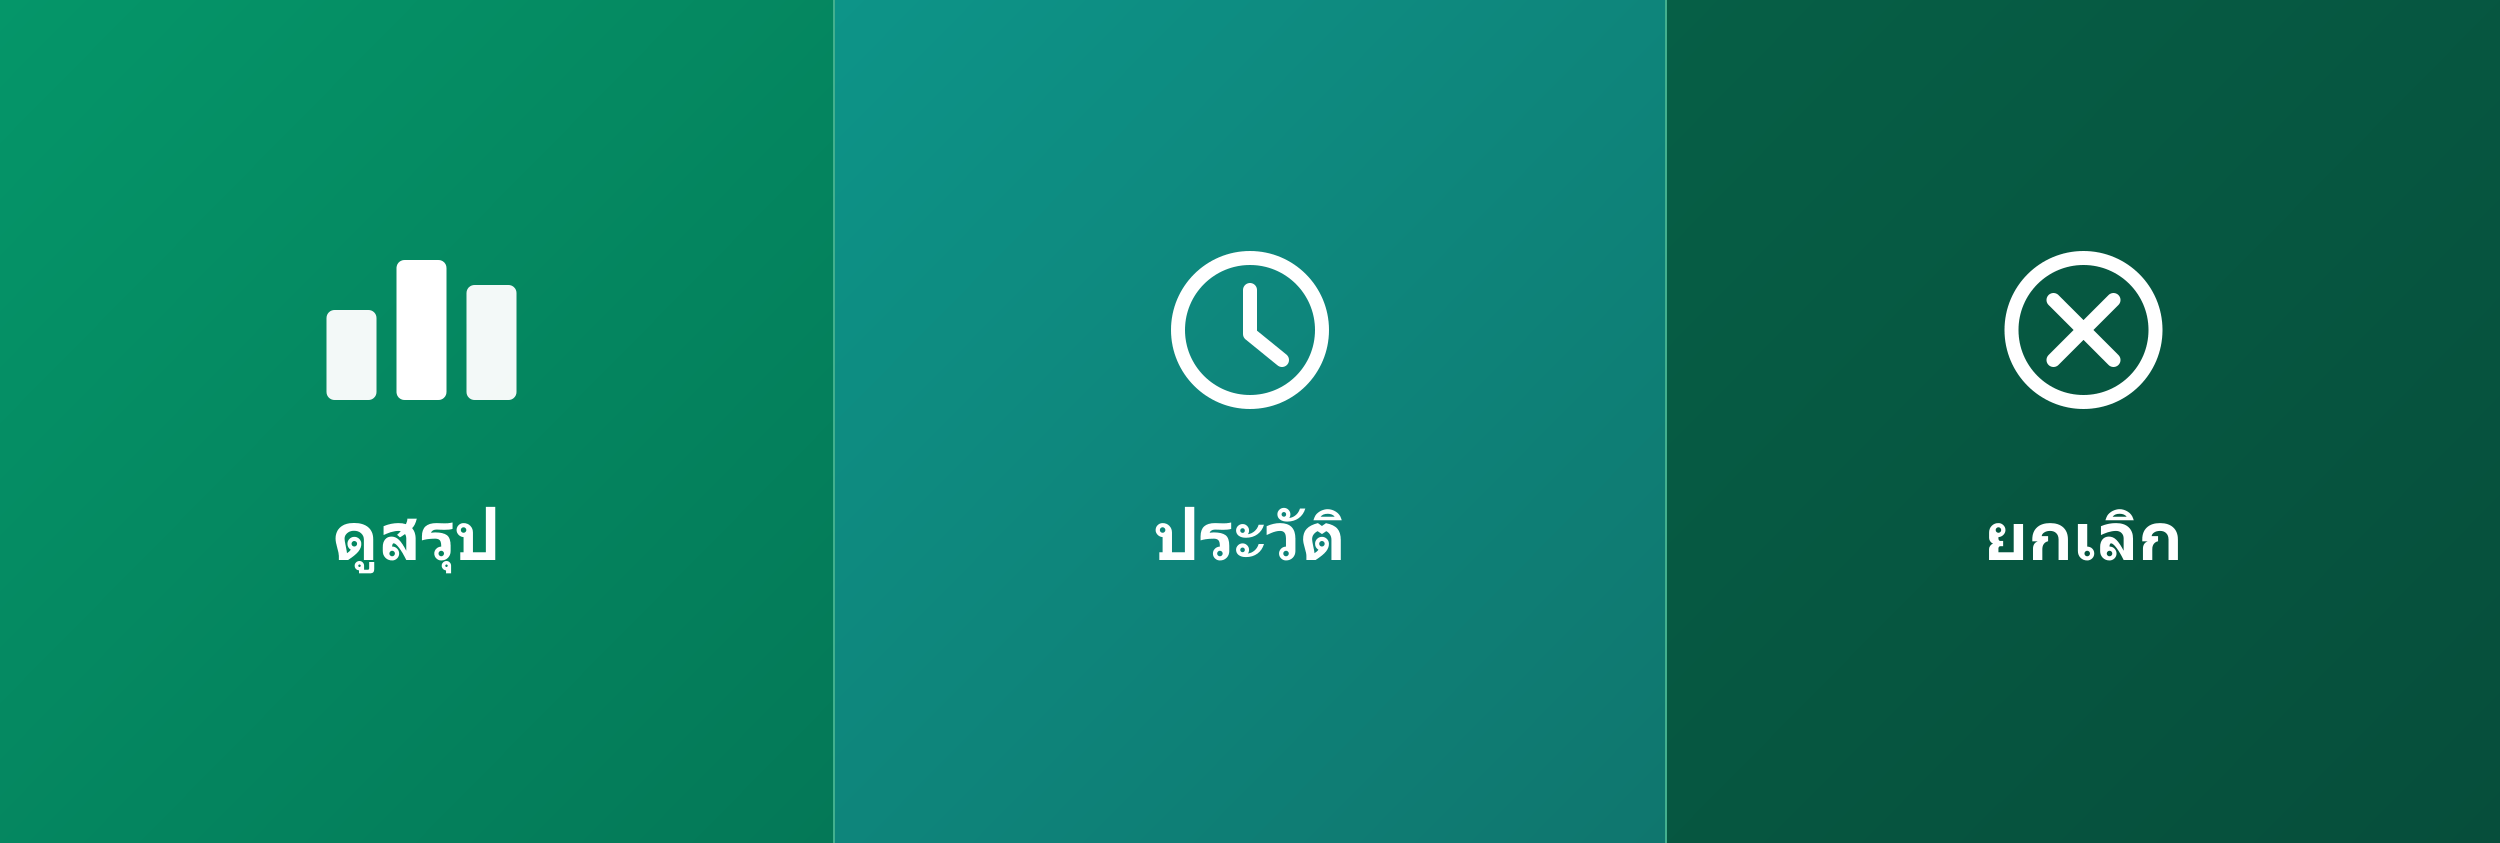
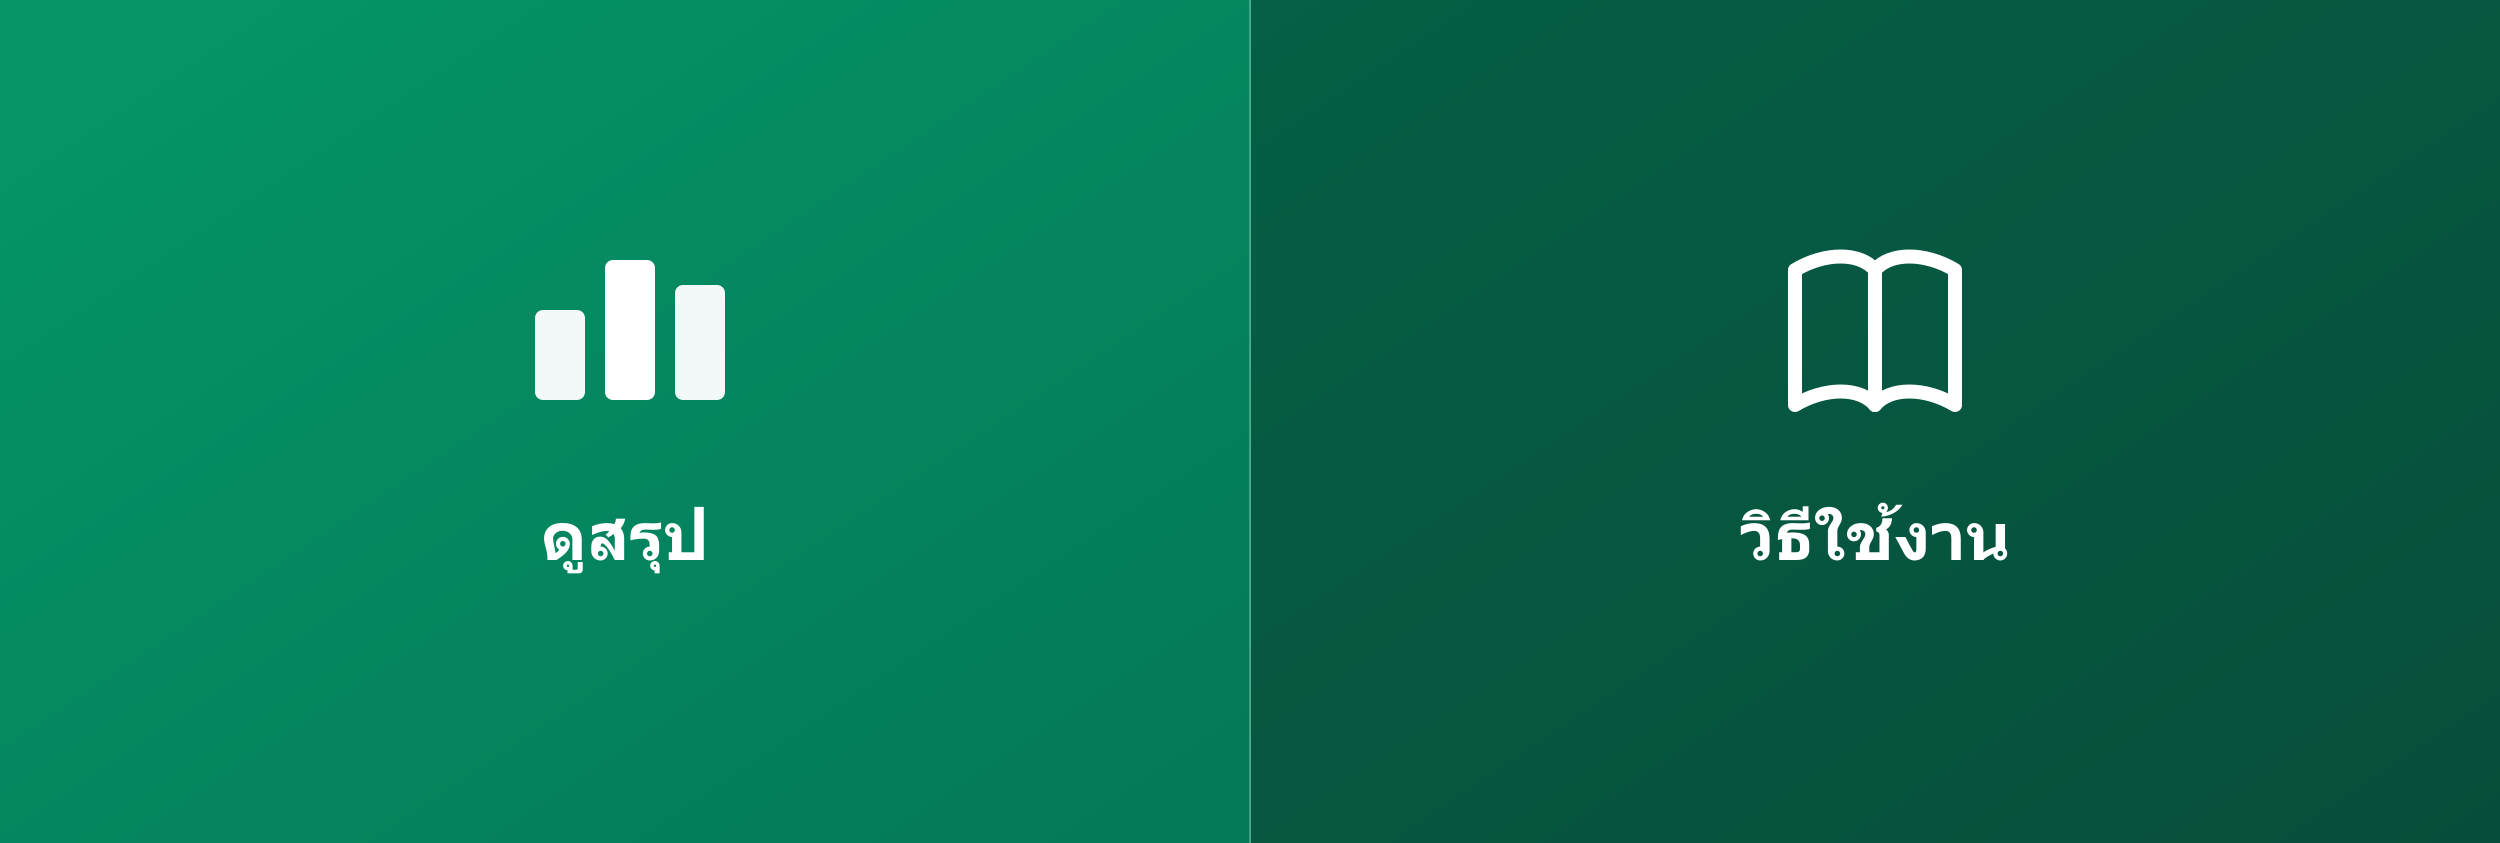
feat: simplify rich menu to 2 tiles, confirm before cancel, scope by household

diff --git a/src/app/api/line/webhook/route.ts b/src/app/api/line/webhook/route.ts
@@ -8,10 +8,11 @@ import {
 } from "@/lib/expense-extraction";
 import type { ExpenseExtraction } from "@/lib/expense-extraction-schema";
 import {
-  cancelExpenseBatchesByIndex,
-  cancelLatestExpenseBatch,
+  cancelExpensesByIds,
   confirmExpenseBatch,
   listRecentConfirmedBatches,
+  previewExpenseBatchesByIndex,
+  previewLatestExpenseBatch,
   rejectExpenseBatch,
 } from "@/lib/expense";
 import { getOrCreateHouseholdMember, type HouseholdMemberContext } from "@/lib/household";
@@ -26,12 +27,30 @@ import {
 import {
   CANCEL_BY_INDEX_PATTERN,
   CANCEL_COMMANDS,
+  CANCEL_CONFIRM_PREFIX,
+  CANCEL_REJECT,
   HISTORY_COMMANDS,
   RICH_MENU_POSTBACK,
 } from "@/constants/bot-commands";
 import type { Expense } from "@/generated/prisma/client";
 
 const channelSecret = process.env.LINE_CHANNEL_SECRET!;
+
+const USAGE_GUIDE_TEXT = `📖 วิธีใช้งาน
+
+💾 บันทึกค่าใช้จ่าย
+พิมพ์ข้อความบอกรายการและจำนวนเงิน เช่น "ค่าไฟ 850" หรือส่งรูปสลิป/ใบเสร็จมาได้เลย บอทจะถามยืนยันก่อนบันทึกทุกครั้ง
+
+📋 ดูประวัติ
+พิมพ์ "ประวัติ" เพื่อดูรายการล่าสุด 10 รายการ พร้อมเลขลำดับ
+
+❌ ยกเลิกรายการ
+- พิมพ์ "ยกเลิก" เพื่อยกเลิกรายการล่าสุด
+- พิมพ์ "ยกเลิก [เลข]" เพื่อยกเลิกรายการตามลำดับที่ดูจาก "ประวัติ" เช่น "ยกเลิก 3" หรือ "ยกเลิก 2,3"
+ทุกครั้งบอทจะถามยืนยันก่อนลบจริง
+
+📊 ดูสรุปค่าใช้จ่าย
+กดปุ่ม "ดูสรุป" ที่เมนูด้านล่างนี้ เพื่อเปิดหน้าสรุปค่าใช้จ่ายแบบละเอียด`;
 
 export async function POST(request: Request) {
   const body = await request.text();
@@ -128,28 +147,12 @@ async function handleImageMessage(
 }
 
 async function handleCancelCommand(replyToken: string, householdMember: HouseholdMemberContext) {
-  const cancelled = await cancelLatestExpenseBatch(householdMember.member.id);
-
-  if (cancelled.length === 0) {
-    await lineClient.replyMessage({
-      replyToken,
-      messages: [{ type: "text", text: "ไม่พบรายการล่าสุดของคุณที่จะยกเลิก" }],
-    });
-    return;
-  }
-
-  const header =
-    cancelled.length > 1 ? `ยกเลิกรายการล่าสุดแล้ว ❌ (${cancelled.length} รายการ)` : "ยกเลิกรายการล่าสุดแล้ว ❌";
-  const payerName = householdMember.member.displayName ?? "ไม่ทราบชื่อ";
-
-  await lineClient.replyMessage({
-    replyToken,
-    messages: [{ type: "text", text: `${header}\nโดย: ${payerName}\n${formatItemsList(cancelled)}` }],
-  });
+  const toCancel = await previewLatestExpenseBatch(householdMember.household.id, householdMember.member.id);
+  await replyCancelConfirmation(replyToken, toCancel, "ไม่พบรายการล่าสุดของคุณที่จะยกเลิก");
 }
 
 async function handleHistoryCommand(replyToken: string, householdMember: HouseholdMemberContext) {
-  const batches = await listRecentConfirmedBatches(householdMember.member.id);
+  const batches = await listRecentConfirmedBatches(householdMember.household.id, householdMember.member.id);
 
   if (batches.length === 0) {
     await lineClient.replyMessage({
@@ -177,26 +180,78 @@ async function handleCancelByIndexCommand(
   replyToken: string,
   householdMember: HouseholdMemberContext,
 ) {
-  const cancelled = await cancelExpenseBatchesByIndex(householdMember.member.id, indices);
+  const toCancel = await previewExpenseBatchesByIndex(
+    householdMember.household.id,
+    householdMember.member.id,
+    indices,
+  );
+  await replyCancelConfirmation(
+    replyToken,
+    toCancel,
+    'ไม่พบรายการตามลำดับที่ระบุ ลองพิมพ์ "ประวัติ" เพื่อดูลำดับล่าสุดอีกครั้ง',
+  );
+}
 
-  if (cancelled.length === 0) {
+// Shared by both cancel entry points ("ยกเลิก" and "ยกเลิก <index>") — shows
+// what would be cancelled and waits for an explicit confirm postback before
+// actually deleting anything, mirroring the same confirm/reject pattern used
+// right after saving a new expense.
+const MAX_CANCEL_CONFIRM_ITEMS = 10;
+
+async function replyCancelConfirmation(
+  replyToken: string,
+  toCancel: Expense[],
+  emptyMessage: string,
+) {
+  if (toCancel.length === 0) {
+    await lineClient.replyMessage({
+      replyToken,
+      messages: [{ type: "text", text: emptyMessage }],
+    });
+    return;
+  }
+
+  // Postback data has a 300-character limit; a cuid is ~25 chars, so this
+  // comfortably covers realistic multi-item cancellations without risking
+  // an oversized payload.
+  if (toCancel.length > MAX_CANCEL_CONFIRM_ITEMS) {
     await lineClient.replyMessage({
       replyToken,
       messages: [
-        { type: "text", text: 'ไม่พบรายการตามลำดับที่ระบุ ลองพิมพ์ "ประวัติ" เพื่อดูลำดับล่าสุดอีกครั้ง' },
+        {
+          type: "text",
+          text: `พบ ${toCancel.length} รายการ ยกเลิกได้ครั้งละไม่เกิน ${MAX_CANCEL_CONFIRM_ITEMS} รายการ ลองระบุลำดับให้น้อยลง`,
+        },
       ],
     });
     return;
   }
 
-  const payerName = householdMember.member.displayName ?? "ไม่ทราบชื่อ";
+  const data = `${CANCEL_CONFIRM_PREFIX}${toCancel.map((expense) => expense.id).join(",")}`;
+  const summary = formatItemsList(toCancel);
+  // The confirm template's `text` field has a 240-character limit — truncate
+  // the preview rather than risk the whole reply failing on a long list of
+  // items with long notes. altText (the notification/desktop-fallback text)
+  // keeps the full summary since it isn't subject to that limit.
+  const CONFIRM_TEXT_LIMIT = 220;
+  const promptText = `ต้องการยกเลิกรายการนี้ใช่ไหม?\n${summary}`;
+  const truncatedPrompt =
+    promptText.length > CONFIRM_TEXT_LIMIT ? `${promptText.slice(0, CONFIRM_TEXT_LIMIT - 1)}…` : promptText;
 
   await lineClient.replyMessage({
     replyToken,
     messages: [
       {
-        type: "text",
-        text: `ยกเลิกแล้ว ❌ (${cancelled.length} รายการ)\nโดย: ${payerName}\n${formatItemsList(cancelled)}`,
+        type: "template",
+        altText: `ยืนยันยกเลิก - ${summary}`,
+        template: {
+          type: "confirm",
+          text: truncatedPrompt,
+          actions: [
+            { type: "postback", label: "ยืนยัน", data, displayText: "ยืนยันยกเลิก" },
+            { type: "postback", label: "ไม่ใช่", data: CANCEL_REJECT, displayText: "ไม่ยกเลิก" },
+          ],
+        },
       },
     ],
   });
@@ -207,14 +262,41 @@ async function handlePostback(
   replyToken: string,
   householdMember: HouseholdMemberContext,
 ) {
-  // Rich menu tiles reuse the exact same handlers as their typed-command
-  // equivalents, so a tap and typing "ประวัติ"/"ยกเลิก" behave identically.
-  if (data === RICH_MENU_POSTBACK.HISTORY) {
-    await handleHistoryCommand(replyToken, householdMember);
+  if (data === RICH_MENU_POSTBACK.USAGE_GUIDE) {
+    await lineClient.replyMessage({ replyToken, messages: [{ type: "text", text: USAGE_GUIDE_TEXT }] });
     return;
   }
-  if (data === RICH_MENU_POSTBACK.CANCEL_LATEST) {
-    await handleCancelCommand(replyToken, householdMember);
+
+  if (data === CANCEL_REJECT) {
+    await lineClient.replyMessage({
+      replyToken,
+      messages: [{ type: "text", text: "ไม่ได้ยกเลิกรายการนี้" }],
+    });
+    return;
+  }
+
+  if (data.startsWith(CANCEL_CONFIRM_PREFIX)) {
+    const expenseIds = data.slice(CANCEL_CONFIRM_PREFIX.length).split(",").filter(Boolean);
+    const cancelled = await cancelExpensesByIds(
+      householdMember.household.id,
+      householdMember.member.id,
+      expenseIds,
+    );
+
+    if (cancelled.length === 0) {
+      await lineClient.replyMessage({
+        replyToken,
+        messages: [{ type: "text", text: "ไม่พบรายการที่จะยกเลิก (อาจถูกยกเลิกไปแล้ว)" }],
+      });
+      return;
+    }
+
+    const payerName = householdMember.member.displayName ?? "ไม่ทราบชื่อ";
+    const header = cancelled.length > 1 ? `ยกเลิกแล้ว ❌ (${cancelled.length} รายการ)` : "ยกเลิกแล้ว ❌";
+    await lineClient.replyMessage({
+      replyToken,
+      messages: [{ type: "text", text: `${header}\nโดย: ${payerName}\n${formatItemsList(cancelled)}` }],
+    });
     return;
   }
 
@@ -222,7 +304,7 @@ async function handlePostback(
   const payerName = householdMember.member.displayName ?? "ไม่ทราบชื่อ";
 
   if (action === "confirm" && batchId) {
-    const items = await confirmExpenseBatch(batchId, householdMember.member.id);
+    const items = await confirmExpenseBatch(householdMember.household.id, batchId, householdMember.member.id);
 
     if (items.length === 0) {
       await lineClient.replyMessage({
@@ -241,7 +323,7 @@ async function handlePostback(
   }
 
   if (action === "reject" && batchId) {
-    const deletedCount = await rejectExpenseBatch(batchId, householdMember.member.id);
+    const deletedCount = await rejectExpenseBatch(householdMember.household.id, batchId, householdMember.member.id);
     await lineClient.replyMessage({
       replyToken,
       messages: [

diff --git a/src/lib/expense.ts b/src/lib/expense.ts
@@ -3,9 +3,19 @@ import { HISTORY_LIST_SIZE } from "@/constants/bot-commands";
 import type { ExpenseCategoryValue } from "@/constants/expense-category";
 import type { Expense } from "@/generated/prisma/client";
 
-export async function confirmExpenseBatch(batchId: string, memberId: string) {
+// Every query below is scoped by BOTH householdId and paidByMemberId, not
+// memberId alone. A member row is already unique per household (see the
+// (householdId, lineUserId) compound key in the schema), so this is
+// defense-in-depth rather than a fix for cross-room leakage that could
+// otherwise occur — but it makes the room boundary explicit at the query
+// level instead of relying on callers always resolving the right memberId.
+export async function confirmExpenseBatch(
+  householdId: string,
+  batchId: string,
+  memberId: string,
+) {
   const items = await prisma.expense.findMany({
-    where: { batchId, paidByMemberId: memberId, confirmed: false },
+    where: { householdId, batchId, paidByMemberId: memberId, confirmed: false },
   });
 
   if (items.length === 0) {
@@ -13,30 +23,36 @@ export async function confirmExpenseBatch(batchId: string, memberId: string) {
   }
 
   await prisma.expense.updateMany({
-    where: { batchId, paidByMemberId: memberId },
+    where: { householdId, batchId, paidByMemberId: memberId },
     data: { confirmed: true },
   });
 
   return items;
 }
 
-export async function rejectExpenseBatch(batchId: string, memberId: string): Promise<number> {
+export async function rejectExpenseBatch(
+  householdId: string,
+  batchId: string,
+  memberId: string,
+): Promise<number> {
   const result = await prisma.expense.deleteMany({
-    where: { batchId, paidByMemberId: memberId, confirmed: false },
+    where: { householdId, batchId, paidByMemberId: memberId, confirmed: false },
   });
 
   return result.count;
 }
 
-// Groups the member's recent confirmed rows into their batches, oldest-first, so the
-// displayed "1, 2, 3..." numbering stays stable between a ประวัติ listing and a follow-up
-// "ยกเลิก <index>" command run right after (as long as nothing new was saved in between).
+// Groups the member's recent confirmed rows (within this household) into
+// their batches, oldest-first, so the displayed "1, 2, 3..." numbering stays
+// stable between a ประวัติ listing and a follow-up "ยกเลิก <index>" command
+// run right after (as long as nothing new was saved in between).
 export async function listRecentConfirmedBatches(
+  householdId: string,
   memberId: string,
   limit: number = HISTORY_LIST_SIZE,
 ): Promise<Expense[][]> {
   const recentExpenses = await prisma.expense.findMany({
-    where: { paidByMemberId: memberId, confirmed: true },
+    where: { householdId, paidByMemberId: memberId, confirmed: true },
     orderBy: { createdAt: "desc" },
     take: 200,
   });
@@ -57,13 +73,29 @@ export async function listRecentConfirmedBatches(
     .map((batchId) => batchesById.get(batchId)!);
 }
 
-export async function cancelExpenseBatchesByIndex(
+// Looks up which confirmed expenses the given indices refer to, without
+// deleting anything — used to show a preview before the user confirms.
+export async function previewExpenseBatchesByIndex(
+  householdId: string,
   memberId: string,
   indices: number[],
 ): Promise<Expense[]> {
-  const batches = await listRecentConfirmedBatches(memberId);
+  const batches = await listRecentConfirmedBatches(householdId, memberId);
+  return indices.flatMap((index) => batches[index - 1] ?? []);
+}
 
-  const toCancel = indices.flatMap((index) => batches[index - 1] ?? []);
+// Deletes specific already-confirmed expense rows by id, scoped to this
+// household and member so a confirmed cancel postback can't be replayed
+// against another member's or another room's expenses. Returns the rows
+// that were actually deleted.
+export async function cancelExpensesByIds(
+  householdId: string,
+  memberId: string,
+  expenseIds: string[],
+): Promise<Expense[]> {
+  const toCancel = await prisma.expense.findMany({
+    where: { id: { in: expenseIds }, householdId, paidByMemberId: memberId, confirmed: true },
+  });
   if (toCancel.length === 0) {
     return [];
   }
@@ -148,9 +180,12 @@ export async function updateExpenseForUser(
   return updateExpense(expense.householdId, expenseId, updates);
 }
 
-export async function cancelLatestExpenseBatch(memberId: string) {
+// Looks up the member's most recently confirmed batch in this household
+// without deleting it — used to show a preview before the user confirms the
+// cancellation.
+export async function previewLatestExpenseBatch(householdId: string, memberId: string): Promise<Expense[]> {
   const latest = await prisma.expense.findFirst({
-    where: { paidByMemberId: memberId, confirmed: true },
+    where: { householdId, paidByMemberId: memberId, confirmed: true },
     orderBy: { createdAt: "desc" },
   });
 
@@ -158,13 +193,7 @@ export async function cancelLatestExpenseBatch(memberId: string) {
     return [];
   }
 
-  const batch = await prisma.expense.findMany({
-    where: { paidByMemberId: memberId, batchId: latest.batchId },
+  return prisma.expense.findMany({
+    where: { householdId, paidByMemberId: memberId, batchId: latest.batchId },
   });
-
-  await prisma.expense.deleteMany({
-    where: { paidByMemberId: memberId, batchId: latest.batchId },
-  });
-
-  return batch;
 }

diff --git a/src/constants/bot-commands.ts b/src/constants/bot-commands.ts
@@ -7,10 +7,14 @@ export const HISTORY_COMMANDS = ["ประวัติ", "ดูประวั
 
 export const HISTORY_LIST_SIZE = 10;
 
-// Postback data sent by the rich menu's "ประวัติ" and "ยกเลิก" tiles — routed
-// through the same handlers as the equivalent typed commands above, so a
-// menu tap and typing "ประวัติ" always produce identical behavior.
+// Postback data sent by the rich menu's "วิธีใช้งาน" tile.
 export const RICH_MENU_POSTBACK = {
-  HISTORY: "richmenu:history",
-  CANCEL_LATEST: "richmenu:cancel_latest",
+  USAGE_GUIDE: "richmenu:usage_guide",
 } as const;
+
+// Postback data for the cancel confirmation step (typed "ยกเลิก" / "ยกเลิก N"
+// no longer delete immediately — they preview, then wait for this postback).
+// Separate prefix from the pending-expense "confirm:"/"reject:" postbacks
+// used right after saving, so the two confirm flows can never collide.
+export const CANCEL_CONFIRM_PREFIX = "cancel_confirm:";
+export const CANCEL_REJECT = "cancel_reject";
